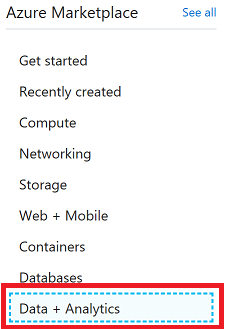
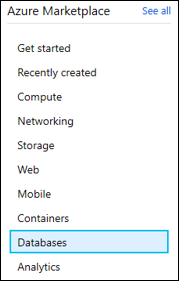
data warehouse first take (wip)

Changed region(s): [[0.0, 0.0, 1.0, 1.0], [0.0838, 0.1423, 0.3911, 0.1993], [0.2793, 0.6263, 0.4749, 0.6833]]

diff --git a/SQLDataWarehouse/README.md b/SQLDataWarehouse/README.md
@@ -1,42 +1,42 @@
 # Batch Analytics
 
-## Batch Analytics with Data Lake Analytics Service
+## Batch Analytics with SQL Data Warehouse Service
 
-![Header Image](images/datalakeanalytics.png)
+SQL Data Warehouse is a cloud-based Enterprise Data Warehouse (EDW) that leverages Massively Parallel Processing (MPP) to quickly run complex queries across petabytes of data. Use SQL Data Warehouse as a key component of a big data solution. Import big data into SQL Data Warehouse with simple PolyBase T-SQL queries, and then use the power of MPP to run high-performance analytics. As you integrate and analyze, the data warehouse will become the single version of truth your business can count on for insights.
 
-Process big data jobs in seconds with Azure Data Lake Analytics. There is no infrastructure to worry about because there are no servers, virtual machines, or clusters to wait for, manage, or tune. Instantly scale the processing power, measured in Azure Data Lake Analytics Units (AU), from one to thousands for each job. You only pay for the processing that you use per job.
-
-U-SQL is a simple, expressive, and extensible language that allows you to write code once and have it automatically parallelized for the scale you need. Process petabytes of data for diverse workload categories such as querying, ETL, analytics, machine learning, machine translation, image processing, and sentiment analysis by leveraging existing libraries written in .NET languages, R, or Python.
+Azure Data Factory is a cloud-based data integration service that allows you to create data-driven workflows in the cloud for orchestrating and automating data movement and data transformation. Using Azure Data Factory, you can create and schedule data-driven workflows (called pipelines) that can ingest data from disparate data stores. It can process and transform the data by using compute services such as Azure HDInsight Hadoop, Spark, Azure Data Lake Analytics, and Azure Machine Learning.
 
 In this lab Learn how to 
 
-* use Data Lake Analytics to run big data analysis jobs that scale to massive data sets
-* how to create and manage batch, real-time, and interactive analytics jobs, and 
-* how to query using the U-SQL language
+* automatically export data coming into Azure IoT Hub for archival.
+* how to create an ingestion pipeline using Azure Data Factory, and
+* how to use Data Warehouse to run big data analysis jobs that scale to massive data sets using familar tools.
 
-## Create Azure Data Lake Analytics Service
+## Create Azure SQL Data Warehouse Service
 
 Create Data Lakae Analytics service to mine data stored in Data Lake Store.
 
 Click on **Create a resource**
 
-![Create Datalake Analytics Service](images/create_resource.png)
+![Create SQL Warehouse Service](images/create_resource.png)
 
-Click on **Data + Analytics**
+Click on **Databases**
 
-![Create Datalake Analytics Service](images/dataanalytics.png)
+![Create SQL Warehouse Service](images/dataanalytics.png)
 
-Click on **Data Lake Analytics**
+Click on **SQL Data Warehouse**
 
-![Create Datalake Analytics Service](images/01_Create_Data_Lake_Analytics_Service.png)
+![Create SQL Warehouse Service](images/01_Create_Data_Lake_Analytics_Service.png)
 
-Pick the Data Lake Store where device telemetry data is being stored from Stream Analytics job
+Create a new logical SQL Server which will act as the front end for your data warehouse
 
-![Pick A Store](images/02_Create_Data_Lake_Pick_Store.png)
+![Create SQL Server](images/02_Create_Data_Lake_Pick_Store.png)
+
+Since our intention is to showcase capabilities rather than performance, choose DW200c as the Performance Level
+
+![Choose Performance](images/03_Create_Data_Lake_Analytics_Performance.png)
 
 Use existing resource group and click on Create button
-
-![Create Service](images/03_Create_Data_Lake_Analytics_Success.png)
 
 ## Create Sample Data and Install Extensions
 
